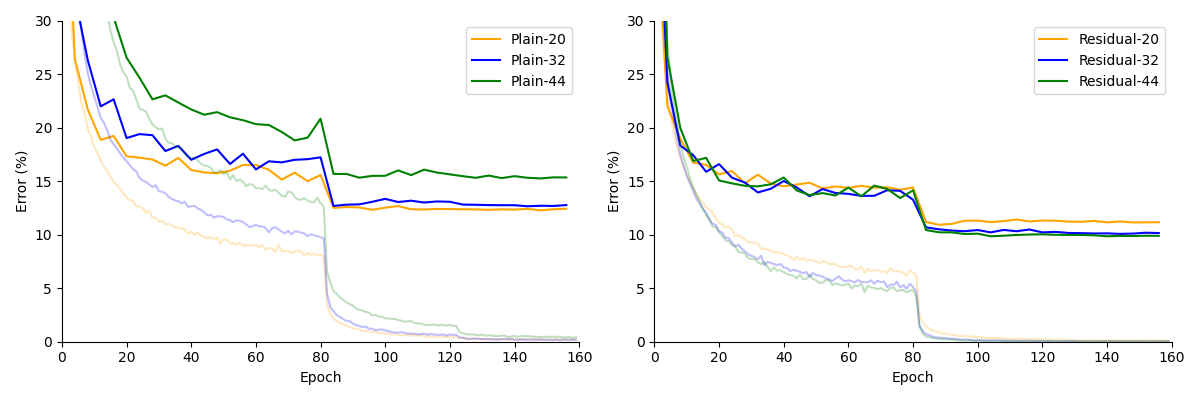
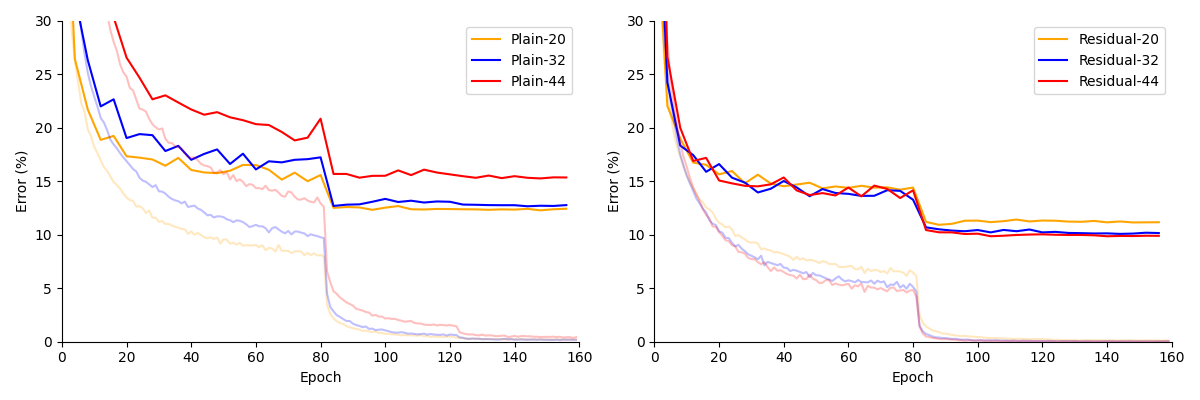
changed colors for visual clarity

diff --git a/plot.py b/plot.py
@@ -70,7 +70,7 @@ def side_by_side(show=False):
     plain, residual = axs
 
     sizes = (20, 32, 44, 56)
-    colors = ('orange', 'blue', 'green', 'red')
+    colors = ('orange', 'blue', 'red', 'green')
     plain_paths = (
         'models/CifarResNet-20-P/03_06_2022/19_13_20',
         'models/CifarResNet-32-P/03_06_2022/22_03_09',
